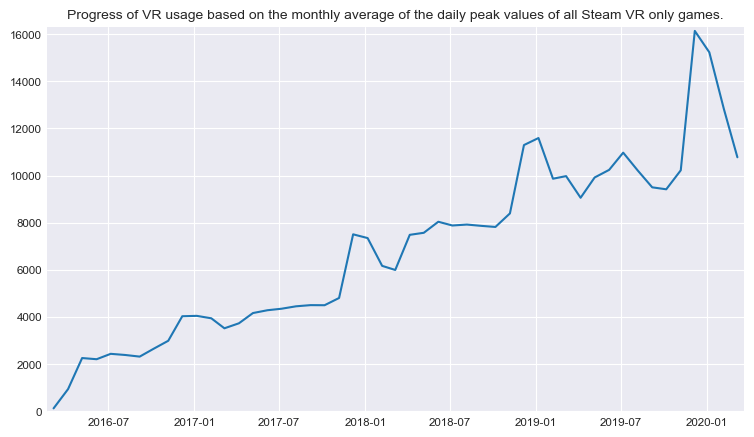
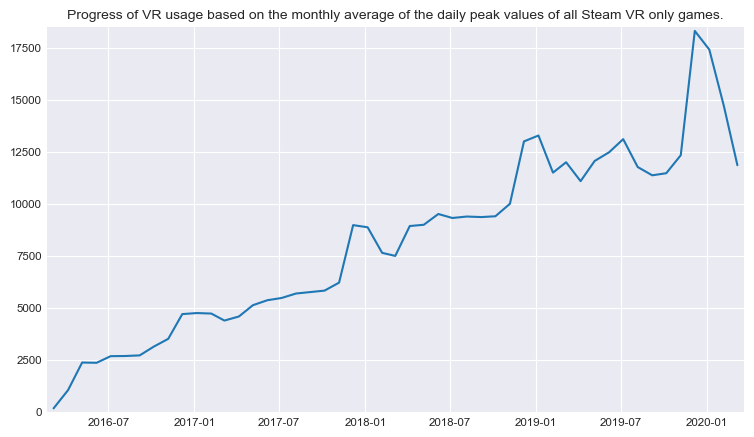
update

diff --git a/scripts/create_charts.py b/scripts/create_charts.py
@@ -28,7 +28,7 @@ def peak_players_online_sql(cursor):
     WHERE date != '2019-07-24' and date > '2016-03'
     Group by appid, new_date
     Order by new_date)
-    where average > 3
+    where average > 1
     Group by new_date
     ''')
     return cursor.fetchall()
